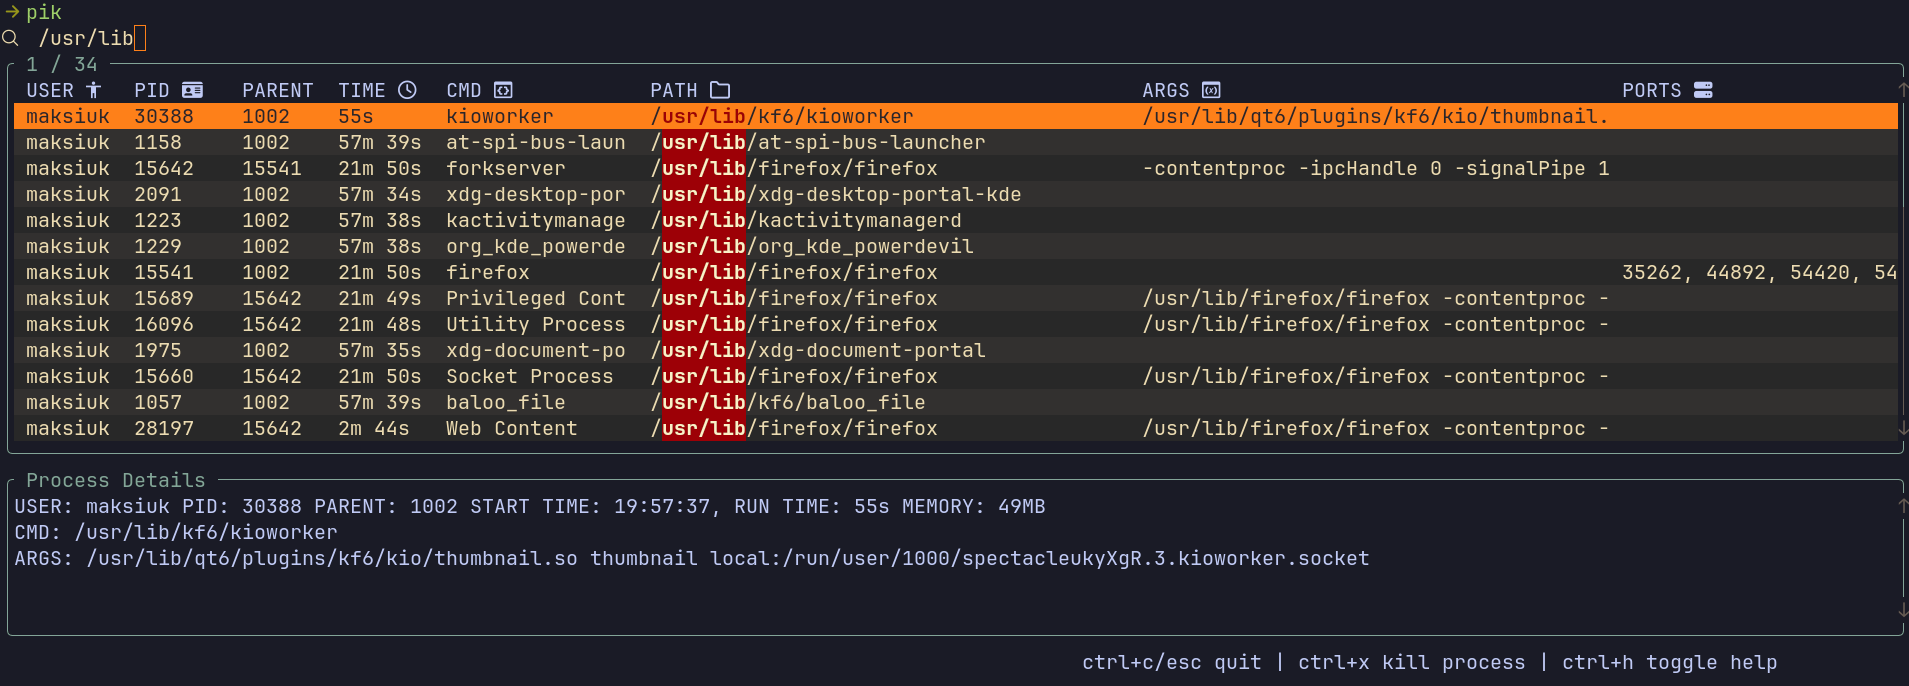
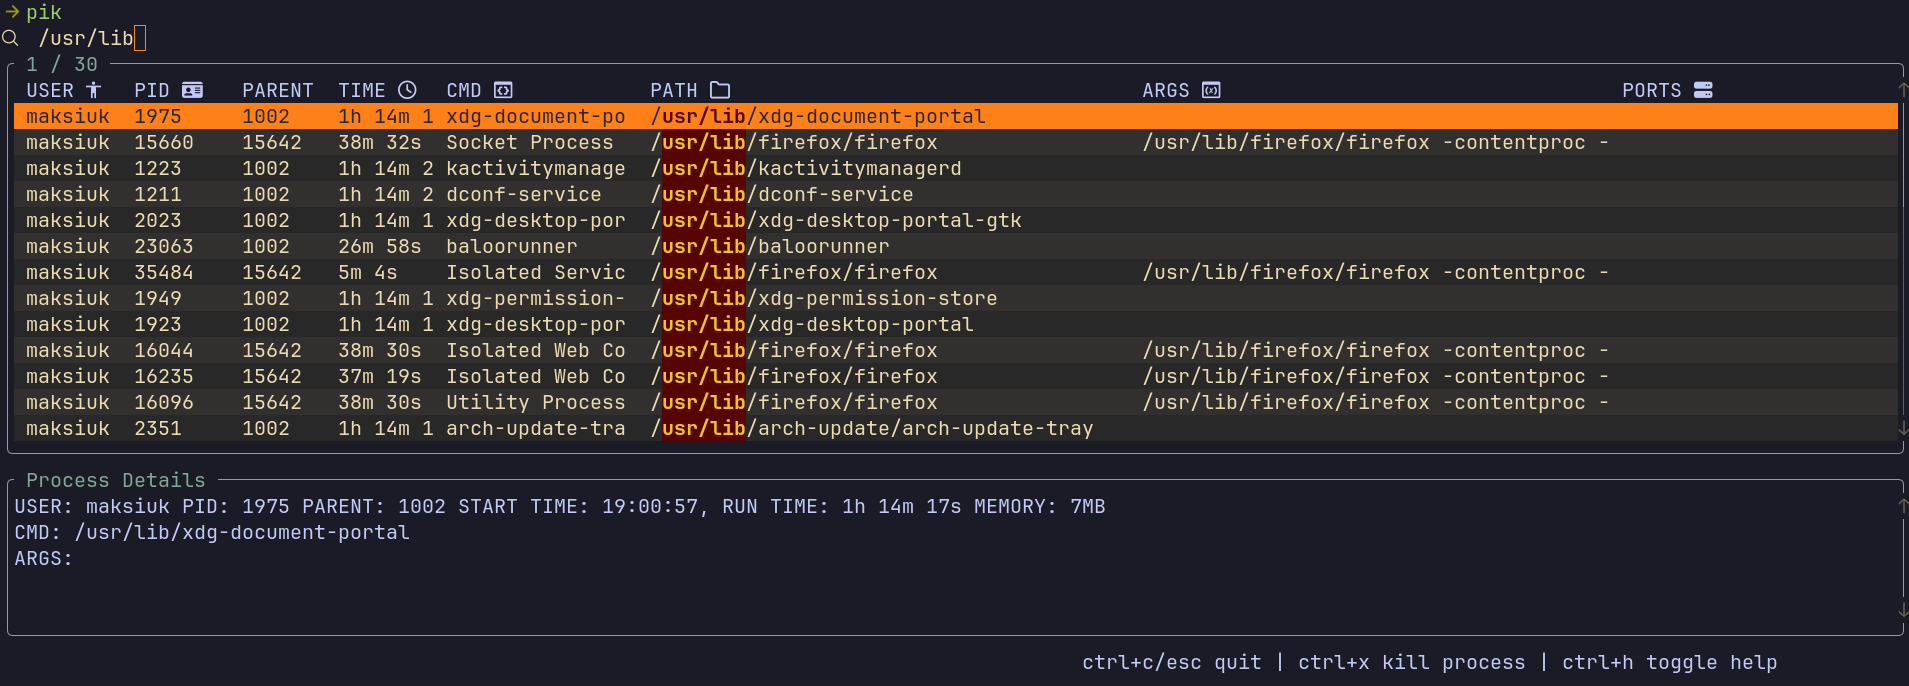
update gruvbox theme

diff --git a/recipes.md b/recipes.md
@@ -180,9 +180,7 @@ cursor color (OSC 12) while pik runs, and restored on exit.
 differ from `cell.highlighted.bg`. The selected-row style is *patched over* the already-styled cells,
 so on the selected row a search match ends up with `fg` from `row.selected` and `bg` from
 `cell.highlighted` — and `REVERSED` then swaps the two. Pick the same color for both and the matched
-text renders in its own background color, i.e. invisible, on the row you are actually looking at. Each
-theme below keeps those two colors at a contrast ratio of 3.4:1 or better, and marks matches with
-`BOLD` as well so the cue survives even where colors collide.
+text renders in its own background color, i.e. invisible, on the row you are actually looking at.
 
 ### Gruvbox Dark
 
@@ -198,7 +196,7 @@ odd = { fg = "#ebdbb2", bg = "#32302f" }
 selected = { fg = "#fe8019", add_modifier = "REVERSED" }
 
 [ui.process_table.cell]
-highlighted = { fg = "#fbf1c7", bg = "#9d0006", add_modifier = "BOLD" }
+highlighted = { fg = "#fabd2f", bg = "#570501", add_modifier = "BOLD" }
 
 [ui.process_table.scrollbar]
 style = { fg = "#665c54" }
